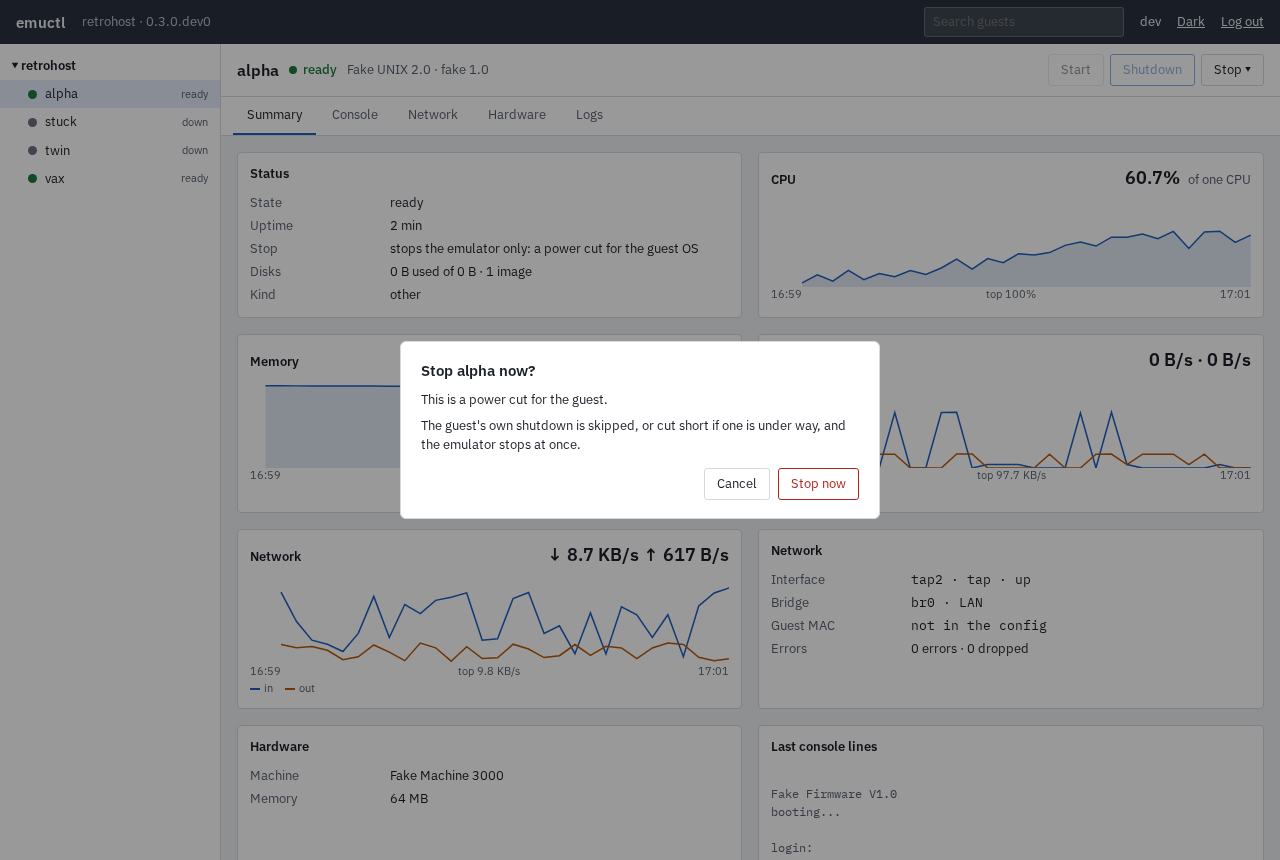
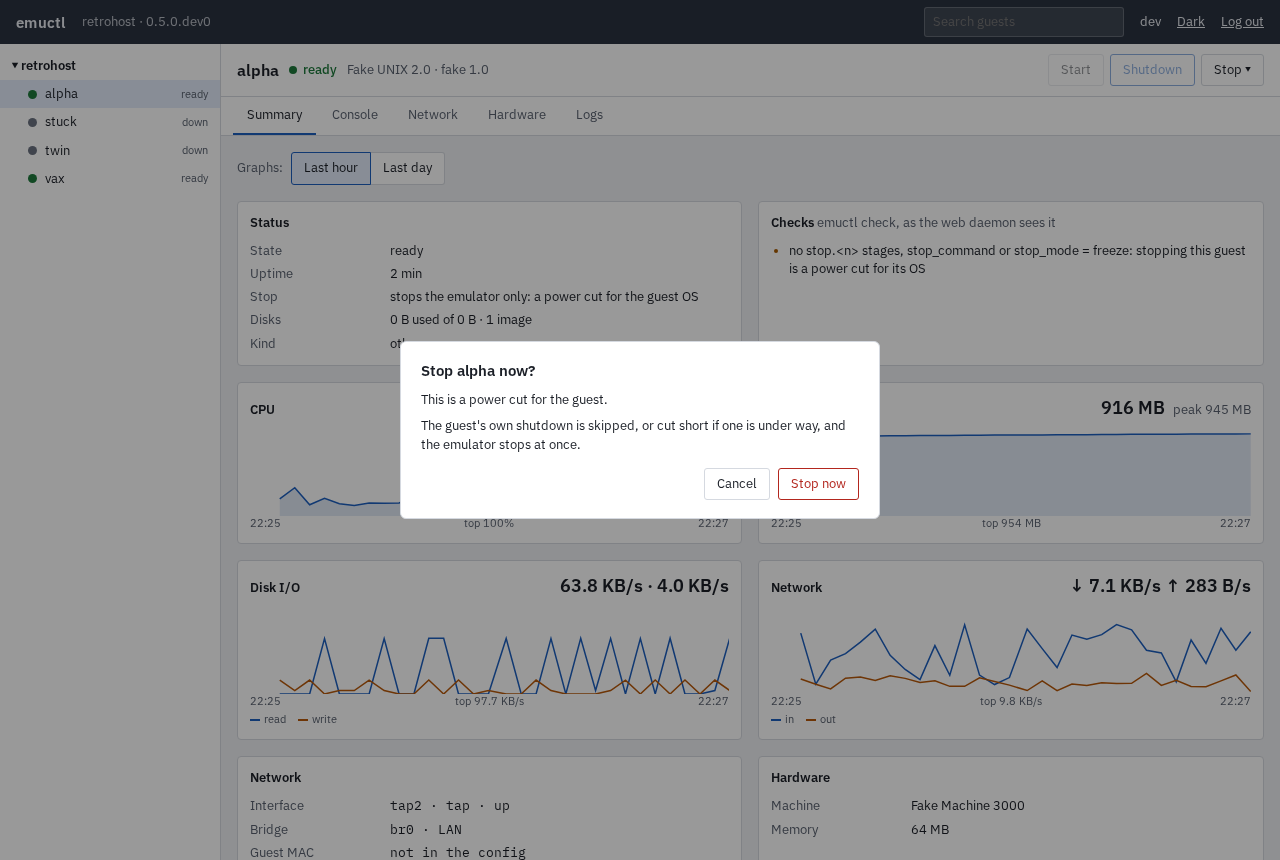
Docs and tour screenshots for phase 5: energy, notes, checks, tokens, the console's look
Claude-Session: https://claude.ai/code/session_011EDgnC5zie3rCLYTW3xGPK

diff --git a/docs/web-tour.md b/docs/web-tour.md
@@ -44,17 +44,33 @@ a guest whose network card has not been seen on its bridge.
 **Network** has each bridge as a table: its members, whether each link is
 up, and the guests using it. **Tasks** lists the last 200 tasks.
 
+![The host's energy view](images/web-host-energy.png)
+
+**Energy** shows what each guest costs: how long it has been up, its CPU
+now, its average over the last hour and day (counting only the time it was
+up), and the CPU-hours it used in the last day. Above, how much of the host's
+CPU the guests use now and over the day.
+
 ## A guest
 
 ![A guest's summary](images/web-guest.png)
 
 The title bar shows the guest's state, its OS and emulator, and the action
-buttons. The tabs are Summary, Console, Network, Hardware and Logs.
+buttons. The tabs are Summary, Console, Display (for a guest with a screen),
+Network, Hardware, Logs and Notes (for a guest with a `notes` file).
 
 **Summary** has the guest's state and how it stops, its disk images, graphs
-of CPU, memory, disk I/O and network traffic for the last hour, its network
-interface, the hardware read from the emulator's config, and the last lines
-of its console. [monitoring.md](monitoring.md) says what each number means.
+of CPU, memory, disk I/O and network traffic, its network interface, the
+hardware read from the emulator's config, and the last lines of its console.
+**Graphs** switches between the last hour (a point every 5 seconds) and the
+last day (a point a minute). [monitoring.md](monitoring.md) says what each
+number means.
+
+Anything `emuctl check` finds wrong with the guest's conf is listed under
+**Checks**, as the web daemon's account sees it. A guest with a display has
+a **Screen** thumbnail, at most a minute old; click it for the Display tab.
+A guest whose conf says `locked = <reason>` is marked "locked", and Start is
+greyed out with that reason.
 
 ## Starting and stopping
 
@@ -90,6 +106,15 @@ running. [stopping.md](stopping.md) explains what each stop does to the guest.
 The guest's serial console, shared with `emuctl console` and anyone else
 looking. It opens with the last part of the console log, then shows what the
 guest prints as it happens.
+
+The screen is 80 columns by 24 lines, as the guests' consoles are, in a
+terminal's case. **Screen** chooses amber, green or white phosphor, or a
+plain look; the choice is kept in your browser. The phosphor looks use a
+font after DEC's VT320 that has the line-drawing characters old systems
+draw forms and menus with. The lamps under the screen show **ON LINE**
+while the page is connected, **LOCAL** when it is not, and **KBD LOCKED**
+while your keys are not being sent. On a narrow screen it scrolls sideways
+rather than shrink past reading.
 
 - It opens **watching**: what you type is not sent. Press **Take keyboard**
   to type; the banner turns blue and says so. Only one person types at a
@@ -145,12 +170,18 @@ cards, then each config file as written.
 **Logs** shows either the console log or the supervisor's log (what
 `emuctl log` shows), the last 100 to 5000 lines.
 
+![A guest's notes](images/web-guest-notes.png)
+
+**Notes** shows the text file the guest's conf names with `notes`: how to
+log in, what is installed, what to remember. The page only shows it; edit
+the file on the host.
+
 ## Dark, and on a phone
 
 ![Dark](images/web-guest-dark.png)
 
 The page follows the browser's light or dark setting; the switch in the top
-bar overrides it for that browser. On a narrow screen the guest list moves
-above the content:
+bar overrides it for that browser. On a phone the guest list folds away
+behind **Guests** in the top bar:
 
 ![On a phone](images/web-phone.png)

diff --git a/docs/web.md b/docs/web.md
@@ -1,9 +1,9 @@
 # The web interface
 
 `emuctl web serve` runs a small web server that shows every guest on the
-host: its state, CPU, memory, disk and network use over the last hour, its
-emulated hardware, the host's bridges, and the logs. From it you can start
-and stop guests and use their serial consoles. It needs Linux with
+host: its state, CPU, memory, disk and network use over the last hour or
+day, its emulated hardware, the host's bridges, and the logs. From it you can
+start and stop guests and use their serial consoles and screens. It needs Linux with
 systemd (see [platforms.md](platforms.md)), Python 3.11 or newer, and
 `aiohttp`.
 
@@ -141,6 +141,20 @@ Only operators can open a display, since the keyboard and mouse go straight
 to the guest. The daemon connects only while the guest is running, and asks
 the VNC server to let several viewers share the screen.
 
+## Scripts and monitoring
+
+For a script, or Prometheus, make a read-only API token instead of a user:
+
+```sh
+sudo emuctl web token add prometheus     # prints the token, once
+sudo emuctl web token list
+sudo emuctl web token revoke prometheus
+```
+
+Send it as `Authorization: Bearer <token>`. It can read everything a viewer
+can (the JSON API and `/metrics`, in Prometheus' format) and change nothing.
+[api.md](api.md#api-tokens) has the routes and a Prometheus job.
+
 ## Who can reach it
 
 The daemon listens on every address on port 8600, as Proxmox does on 8006.
@@ -162,8 +176,10 @@ The daemon looks at every guest every 5 seconds, whether or not a page is
 open: one `systemctl show` for all running guests and a few small file reads
 each. It connects to a guest's `guest_addr` at most every 30 seconds. The
 host's network report, which runs `ip`, `bridge` and `ethtool`, is made only
-while a page shows it. It keeps one hour of history in memory; a restart
-starts the graphs again.
+while a page shows it. It keeps the last hour of samples in memory, and the
+last day as one-minute averages, written to `history_file` every five
+minutes (about 100 KB a guest). A guest's screen thumbnail is one short VNC
+connection a minute, only while someone has that guest's summary open.
 
 ## When something is wrong
 
